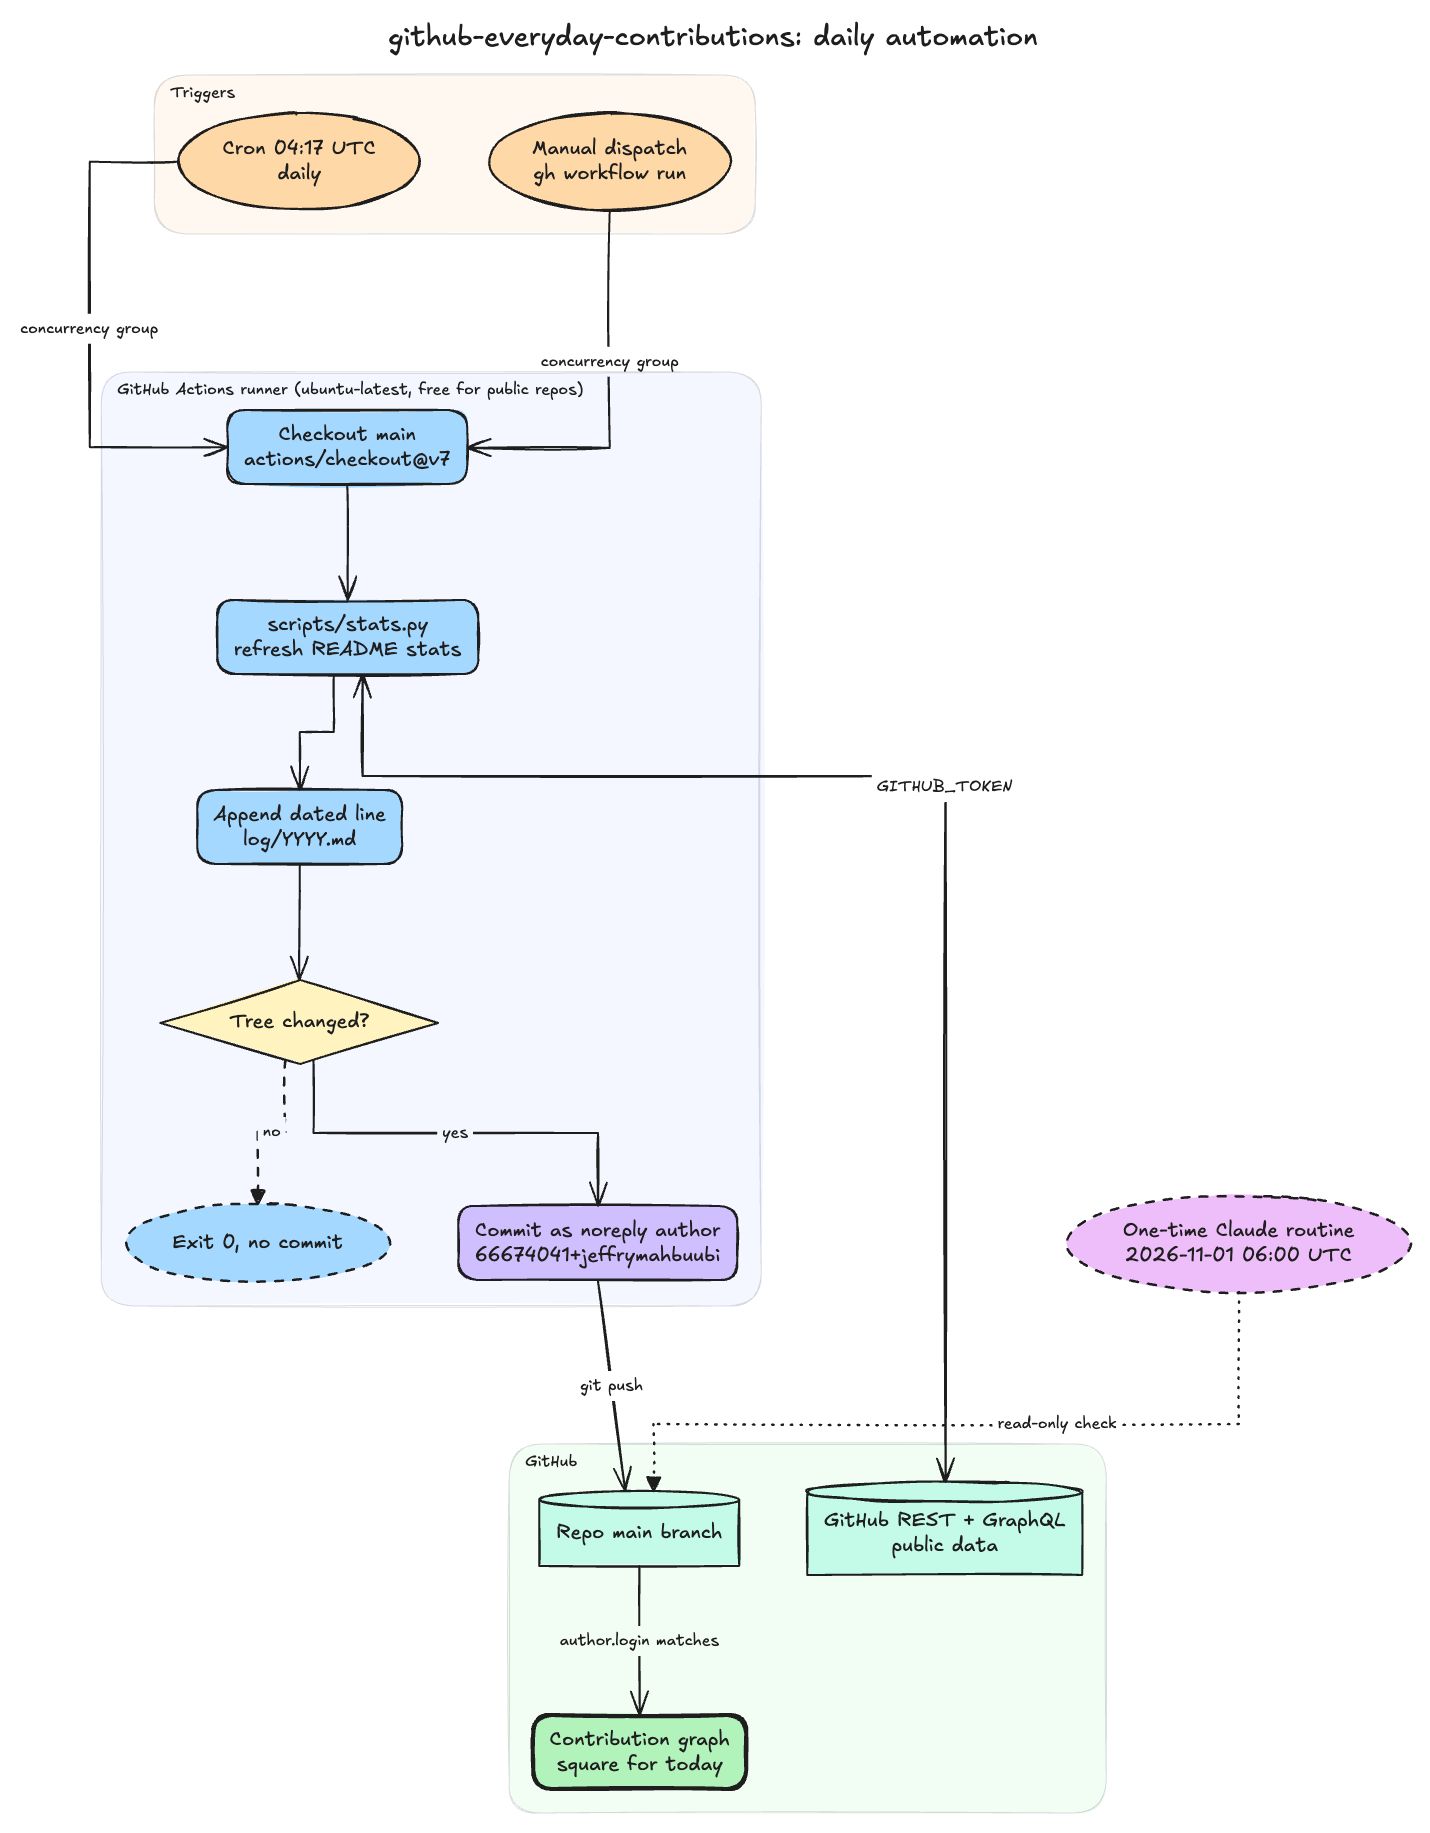
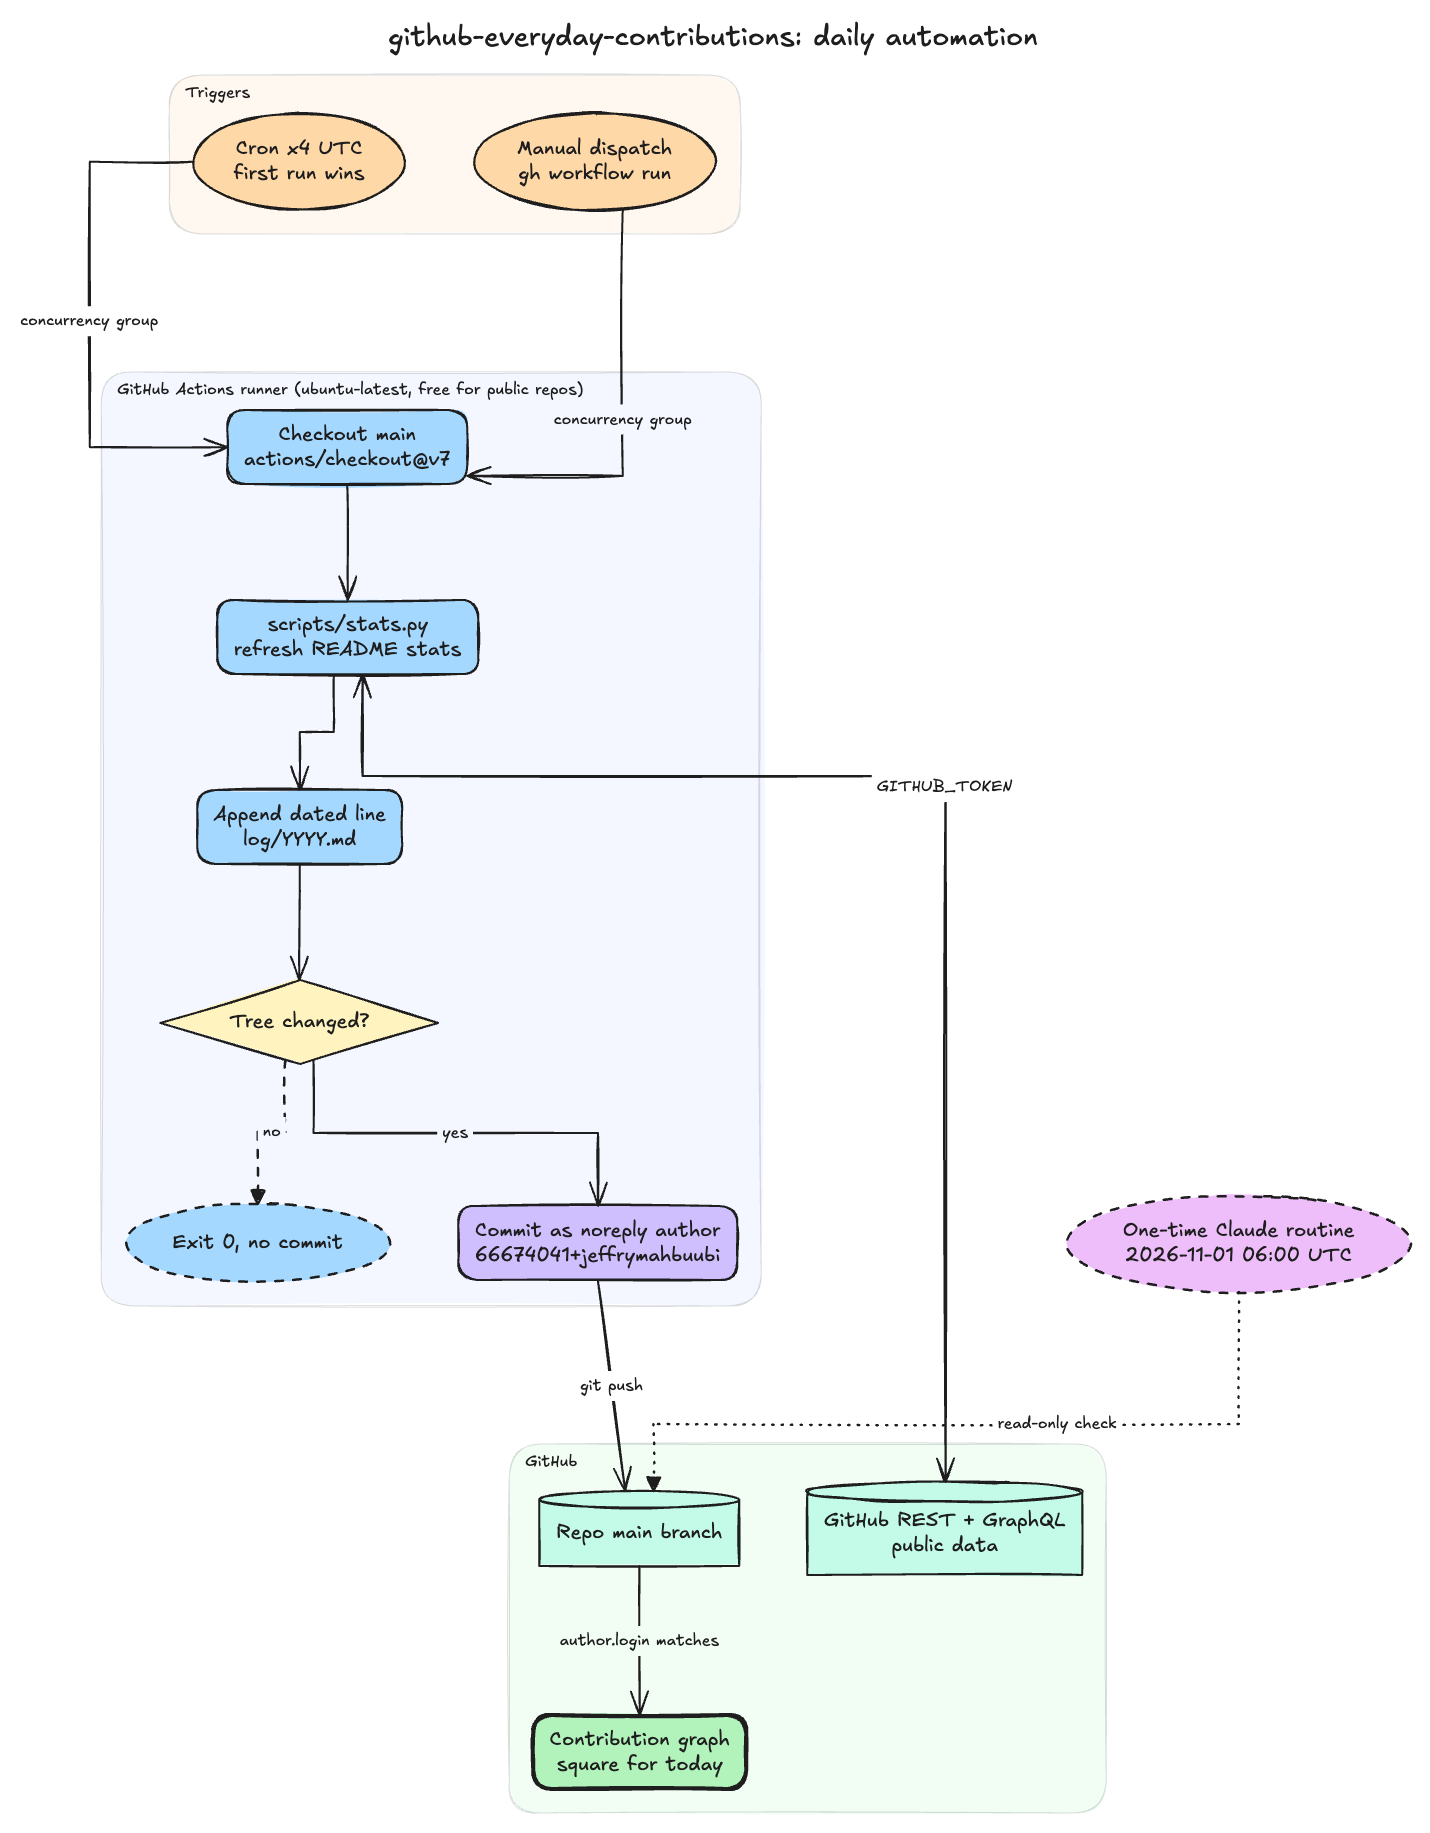
ci: run daily check-in at four UTC slots with idempotency guard
GitHub scheduled runs are best-effort; the 2026-11-01 run started 7h late.
Four cron slots spread across the UTC day make a missed day unlikely, and a
guard step skips the run when today's log line already exists, so extra
runs and manual dispatches no longer add duplicate commits.

Changed region(s): [[0.1231, 0.0311, 0.5231, 0.1244], [0.3692, 0.1866, 0.4615, 0.2488], [0.0308, 0.1555, 0.1231, 0.1866]]

diff --git a/README.md b/README.md
@@ -22,7 +22,7 @@ _Updated 2026-11-01 (UTC)._
 
 Diagram source: [`docs/diagrams/daily-automation.exd`](docs/diagrams/daily-automation.exd) (editable copy: `daily-automation.excalidraw`), drawn with diagram-axi.
 
-- The workflow in `.github/workflows/daily.yml` runs every day at 04:17 UTC.
+- The workflow in `.github/workflows/daily.yml` runs at four times across the UTC day (01:17, 06:47, 12:17, 17:47); the first run of the day checks in and the rest skip, because GitHub can start scheduled runs hours late.
 - `scripts/stats.py` rewrites the Stats section from public GitHub data. If the API fails, a value shows as `n/a` and the run still succeeds.
 - It appends `- <UTC date>: daily check-in` to `log/<UTC year>.md` and pushes the commit to `main`.
 - Commits are authored with the account's GitHub noreply address so they appear on the profile's contribution graph.
